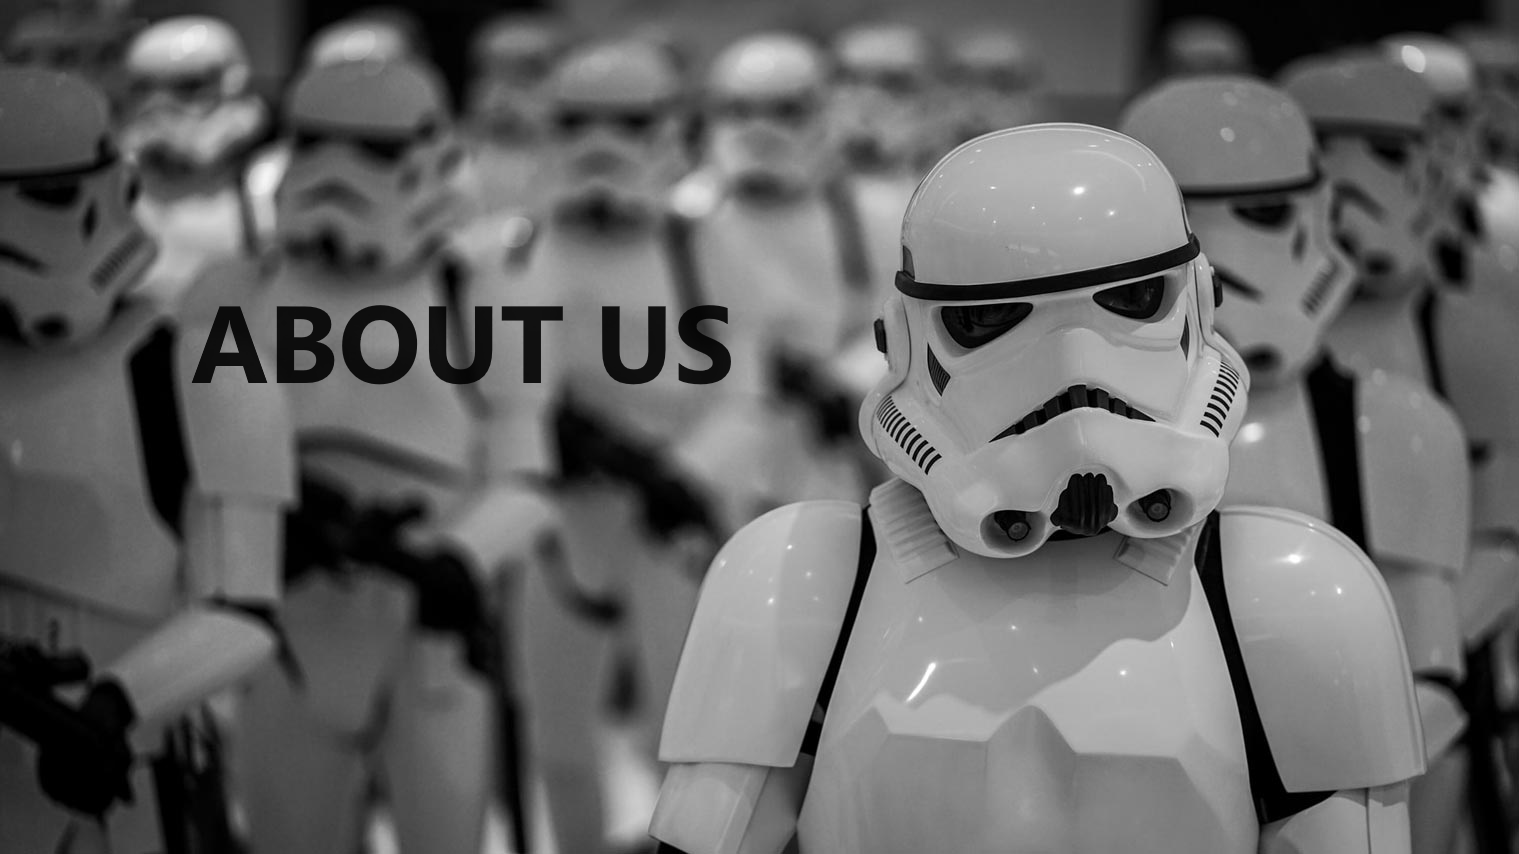
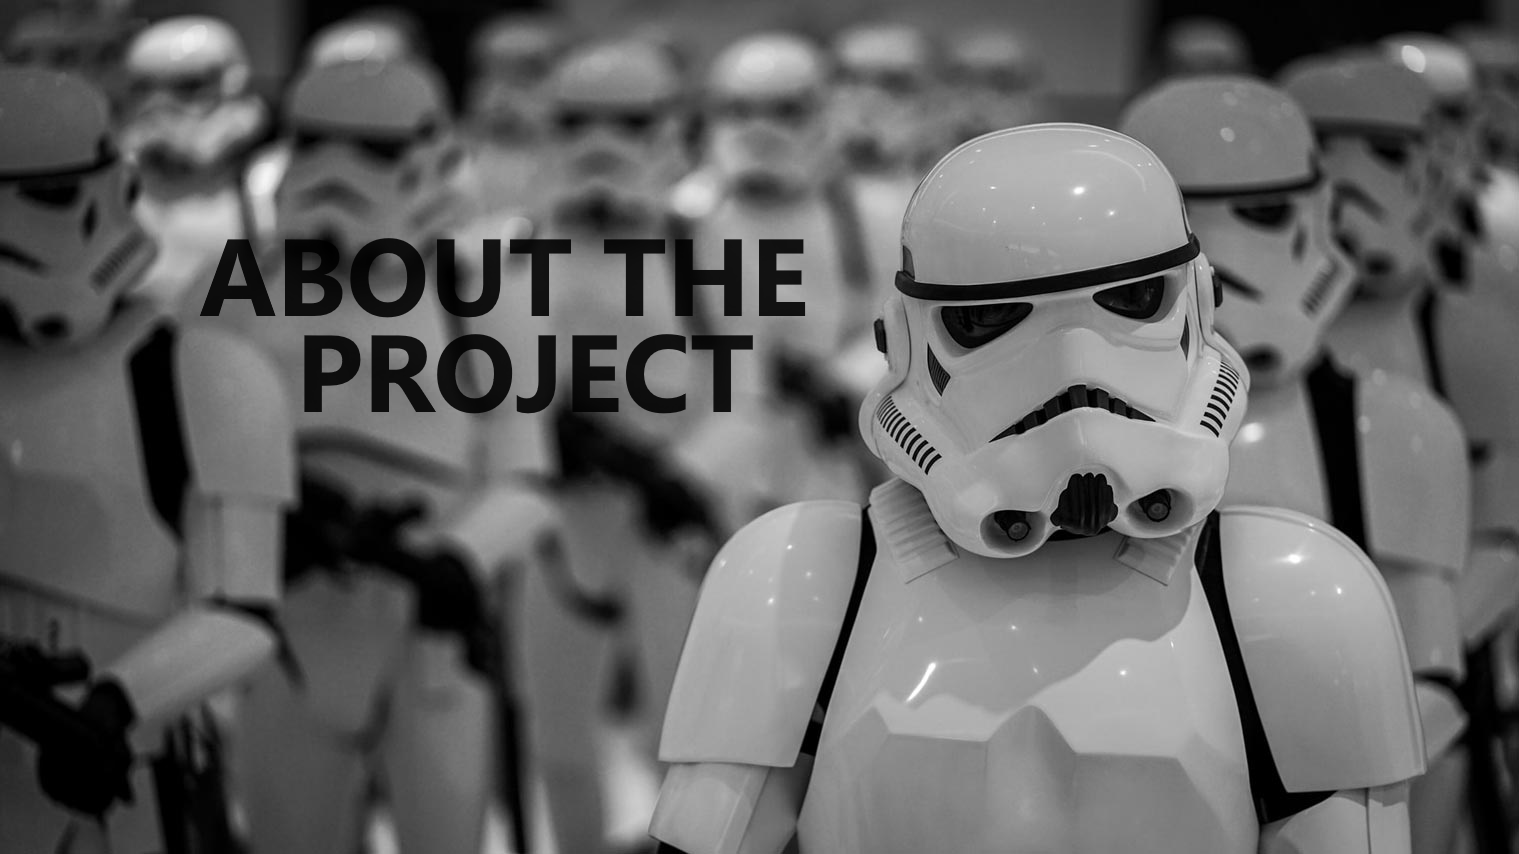
change the about us to about the project+

Changed region(s): [[0.1238, 0.274, 0.526, 0.4871]]

diff --git a/html/aboutus.html b/html/aboutus.html
@@ -1,4 +1,4 @@
-<!DOCTYPE html>
+ <!DOCTYPE html>
 <html lang="en">
 <head>
     <meta charset="UTF-8">
@@ -14,7 +14,7 @@
     </header>
     <main>
         <section id="about-us-page">
-            <h1>About us</h1>
+            <h1>About the project</h1>
             <div id="text-aboutus">
                 <p>
                     Welcome to our StarWars card game! In this immersive experience, players can delve into the Star Wars universe to test their knowledge. The game offers a variety of guessing options, including characters, planets, movies, species, and starships. With three difficulty modes – Beginner, Intermediate, and Advanced – each level provides a unique challenge, making the gameplay both entertaining and engaging.
@@ -29,15 +29,6 @@
                     Throughout the development process, I encountered various challenges, including prioritization, structural design due to limited experience, and tackling design complexities. Each challenge presented an opportunity for growth and learning, allowing me to refine my skills and enhance the overall project.
                 </p>
                 <p>
-<<<<<<< HEAD
-                    When making design decisions, I drew inspiration from the Star Wars theme, incorporating its iconic color palette. Keeping the design simple ensures a clean and user-friendly experience for players.
-                </p>
-                <p>
-                    This project is a personal endeavor, serving as a challenge and an addition to my portfolio. Despite the challenges faced, the development process was a rewarding journey. 
-                </p>
-                <p>
-=======
->>>>>>> c0916d3f1dfae0d2d8e13e068f6fd1731d17829b
                     Looking to the future, I aspire to enhance the overall design and introduce animations. Ideas include incorporating an animated plane that takes off to carry the suggestions form. Continuous user feedback is vital for implementing these improvements, ensuring the game evolves based on the needs and preferences of its players.
                 </p>
                 <p>

diff --git a/html/home.html b/html/home.html
@@ -45,7 +45,7 @@
                 <a href="./aboutus.html"><img src="../assets/aboutus-div.png" alt="about us" width="45%"></a>
             </div>
             <div class="explication-divs toRight">
-                <h1>About us</h1>
+                <h1>About the project</h1>
                 <p>Find out more about the project and about its creation.</p>
                 <a href="./aboutus.html"><button>Learn more</button></a>
             </div>
